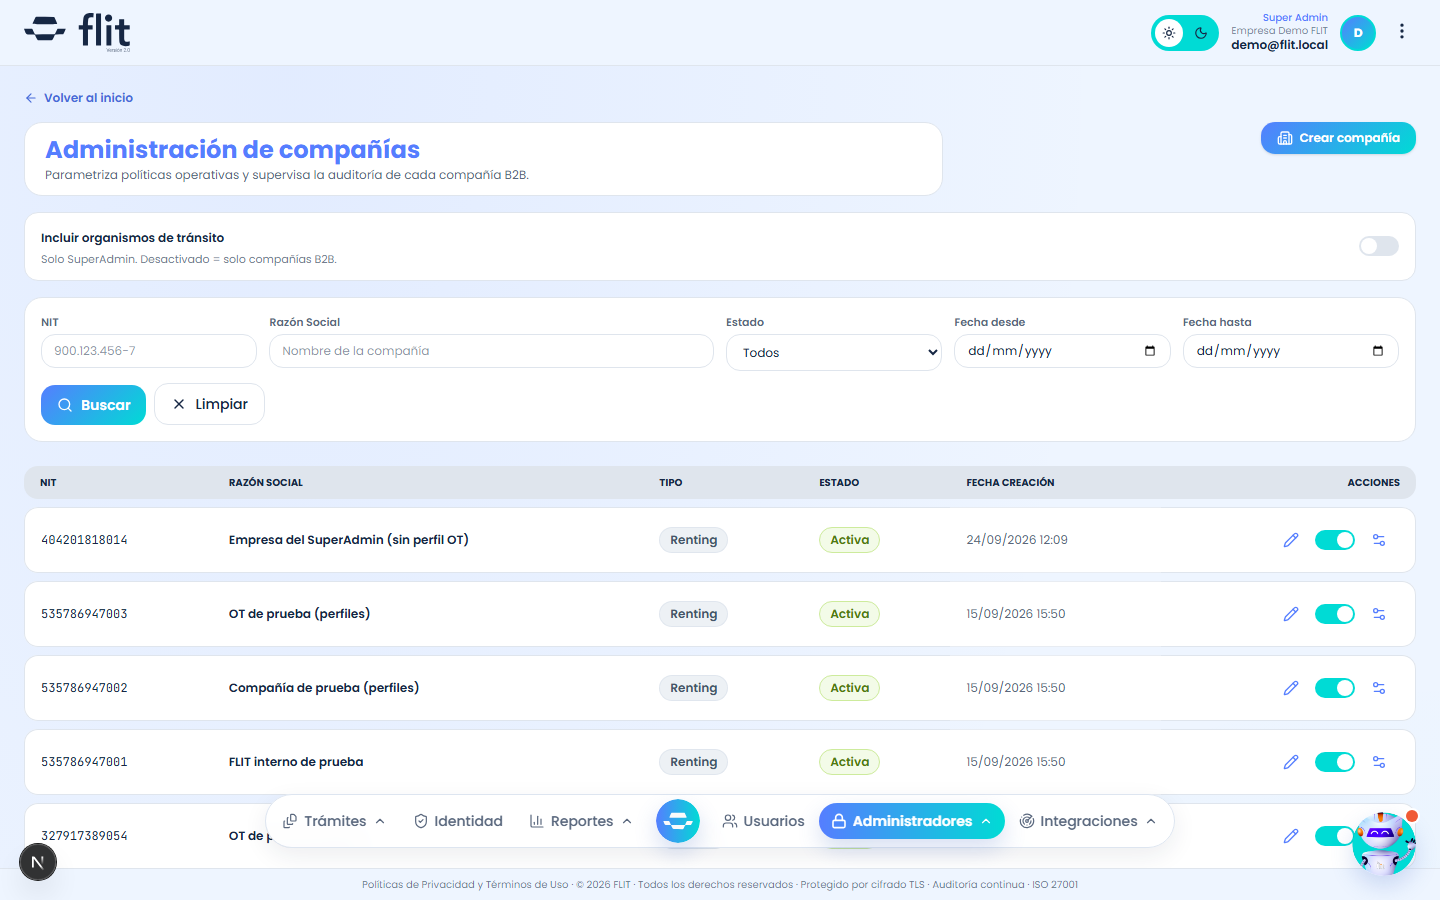
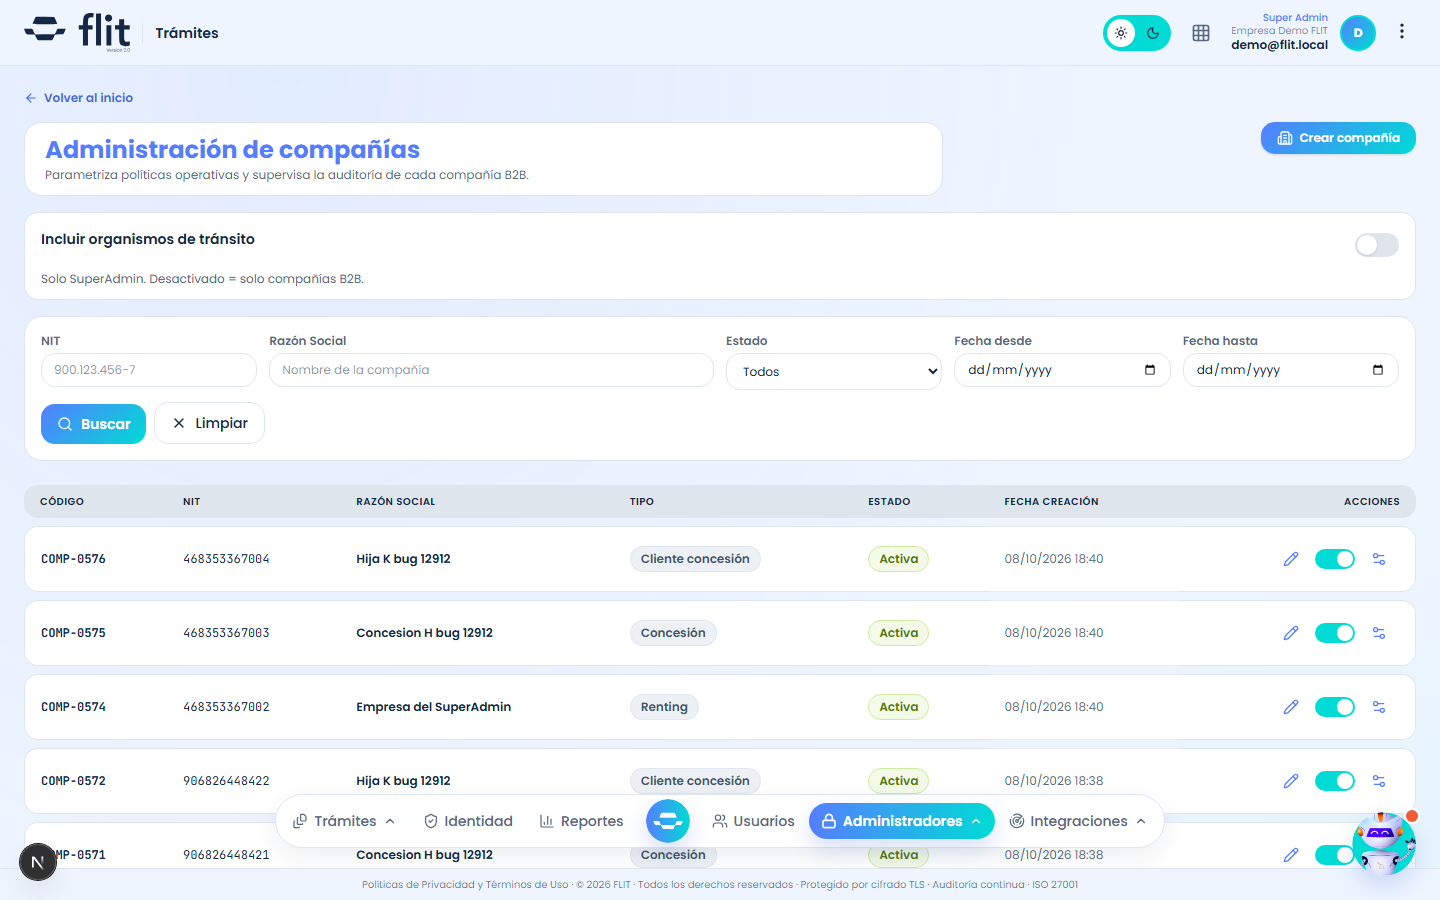
HU13608: columna Código en la tabla de compañías del dashboard
- CompanyListTable muestra el consecutivo COMP-XXXX como primera columna
  (fuente monoespaciada, modelo único de tablas; el backend ya lo proyectaba).
- La tabla conserva su scroll horizontal propio en pantallas angostas.
- Manual: el artículo de Compañías explica la columna y se regenera la captura
  admin-companias y el artefacto de DR. FLIT.

(cherry picked from commit 92b7d976e57fae4055e4fc8af5e0695010628ea7)

diff --git a/frontend/components/admin/companies/CompanyListTable.tsx b/frontend/components/admin/companies/CompanyListTable.tsx
@@ -15,9 +15,8 @@ import {
 } from "@/components/atom/table-styles";
 
 import { formatFechaHora } from "@/lib/format/date";
-// Tabla paginada de compañías (HU #10194, AC1). Columnas: NIT, Razón Social,
-
-// Estado, Fecha de creación + acciones "Editar", "Activar/Desactivar" y "Configurar".
+// Tabla paginada de compañías (HU #10194, AC1). Columnas: Código (HU #13608, consecutivo COMP-XXXX),
+// NIT, Razón Social, Tipo, Estado, Fecha de creación + acciones "Editar", "Activar/Desactivar" y "Configurar".
 // Paginación server-side: la tabla solo emite el cambio de página vía onPageChange.
 export interface CompanyListTableProps {
   items: CompanyListItem[];
@@ -51,12 +50,15 @@ export function CompanyListTable({
       {/* Bug #13055 — tabla homologada con el modelo de trámites */}
       <table
         aria-label="Compañías"
-        className="min-w-[640px] text-xs"
+        className="min-w-[760px] text-xs"
         style={{ width: "100%", borderCollapse: "separate", borderSpacing: "0 8px" }}
       >
         <thead>
           <tr>
             <th scope="col" className={`${TABLA_HEADER_CELL_CLS} rounded-l-xl`} style={{ background: TABLA_HEADER_BG, color: TABLA_HEADER_FG }}>
+              Código
+            </th>
+            <th scope="col" className={TABLA_HEADER_CELL_CLS} style={{ background: TABLA_HEADER_BG, color: TABLA_HEADER_FG }}>
               NIT
             </th>
             <th scope="col" className={TABLA_HEADER_CELL_CLS} style={{ background: TABLA_HEADER_BG, color: TABLA_HEADER_FG }}>
@@ -83,7 +85,10 @@ export function CompanyListTable({
             const editable = isB2BTenantType(c.tenantType) && !c.isTransitOffice;
             return (
             <tr key={c.id} className={`bg-white dark:bg-[#0B0F14] ${TABLA_ROW_HOVER_CLS}`}>
-              <td className="border-y border-l px-4 py-3 font-mono rounded-l-xl" style={{ borderColor: "#DFE5ED" }}>
+              <td className="whitespace-nowrap border-y border-l px-4 py-3 font-mono font-semibold rounded-l-xl" style={{ borderColor: "#DFE5ED" }}>
+                {c.code}
+              </td>
+              <td className="border-y px-4 py-3 font-mono" style={{ borderColor: "#DFE5ED" }}>
                 {c.nit}
               </td>
               <td className="border-y px-4 py-3 font-semibold" style={{ borderColor: "#DFE5ED" }}>

diff --git a/frontend/components/admin/companies/__tests__/CompanyListTable.test.tsx b/frontend/components/admin/companies/__tests__/CompanyListTable.test.tsx
@@ -12,7 +12,7 @@ const items: CompanyListItem[] = [
     id: "11111111-1111-1111-1111-111111111111",
     nit: "900.123.456-7",
     razonSocial: "FLIT SAS",
-    code: "FLITSAS",
+    code: "COMP-0001",
     tenantType: "FLIT",
     isTransitOffice: false,
     estadoActivo: true,
@@ -23,7 +23,7 @@ const items: CompanyListItem[] = [
     id: "22222222-2222-2222-2222-222222222222",
     nit: "890.456.789-1",
     razonSocial: "Movilidad Antioquia",
-    code: "MOVANT",
+    code: "COMP-0014",
     tenantType: "RENTING",
     isTransitOffice: true,
     estadoActivo: false,
@@ -190,5 +190,46 @@ describe("CompanyListTable (AC1)", () => {
 
     fireEvent.click(screen.getByRole("switch", { name: /activar Movilidad Antioquia/i }));
     expect(onToggleStatus).toHaveBeenCalledWith(items[1]);
+  });
+
+  it("HU #13608: la primera columna es Código con el consecutivo de cada compañía", () => {
+    render(
+      <CompanyListTable
+        items={items}
+        totalCount={2}
+        page={1}
+        pageSize={20}
+        onPageChange={vi.fn()}
+        onConfigure={vi.fn()}
+        onEdit={vi.fn()}
+        onToggleStatus={vi.fn()}
+      />,
+    );
+
+    const headers = screen.getAllByRole("columnheader").map((h) => h.textContent?.trim());
+    expect(headers[0]).toBe("Código");
+    expect(headers[1]).toBe("NIT");
+
+    const filas = screen.getAllByRole("row").slice(1);
+    expect(filas[0].querySelector("td")).toHaveTextContent("COMP-0001");
+    expect(filas[1].querySelector("td")).toHaveTextContent("COMP-0014");
+  });
+
+  it("HU #13608: sin compañías conserva el encabezado completo", () => {
+    render(
+      <CompanyListTable
+        items={[]}
+        totalCount={0}
+        page={1}
+        pageSize={20}
+        onPageChange={vi.fn()}
+        onConfigure={vi.fn()}
+        onEdit={vi.fn()}
+        onToggleStatus={vi.fn()}
+      />,
+    );
+
+    expect(screen.getAllByRole("columnheader")).toHaveLength(7);
+    expect(screen.getByRole("columnheader", { name: "Código" })).toBeInTheDocument();
   });
 });

diff --git a/frontend/lib/manual/articles/superadmin.ts b/frontend/lib/manual/articles/superadmin.ts
@@ -42,7 +42,7 @@ export const SUPERADMIN_ARTICLES: ManualArticle[] = [
         id: "companias",
         title: "1. Compañías",
         paragraphs: [
-          "Administradores → Compañías. Catálogo de compañías B2B con filtros, estado y el toggle «incluir OT» para ver también los organismos de tránsito en el mismo listado. «Crear compañía»: razón social, NIT, tipo de compañía (normal, Concesión o Marca Blanca) y, para Marca Blanca, dominio propio. El código no se escribe: el sistema asigna el siguiente consecutivo (COMP-0001, COMP-0002…) al guardar. «Activar / Desactivar» cambia el estado con confirmación; una compañía de tipo de sistema no se edita desde aquí.",
+          "Administradores → Compañías. Catálogo de compañías B2B con filtros, estado y el toggle «incluir OT» para ver también los organismos de tránsito en el mismo listado. La primera columna, «Código», muestra el consecutivo de cada compañía (COMP-0001, COMP-0002…); las compañías que ya existían recibieron el suyo según su antigüedad. «Crear compañía»: razón social, NIT, tipo de compañía (normal, Concesión o Marca Blanca) y, para Marca Blanca, dominio propio. El código no se escribe: el sistema asigna el siguiente consecutivo (COMP-0001, COMP-0002…) al guardar. «Activar / Desactivar» cambia el estado con confirmación; una compañía de tipo de sistema no se edita desde aquí.",
           "Abrir una fila lleva a la ficha completa de la compañía, con 7 pestañas:",
         ],
         bullets: [
